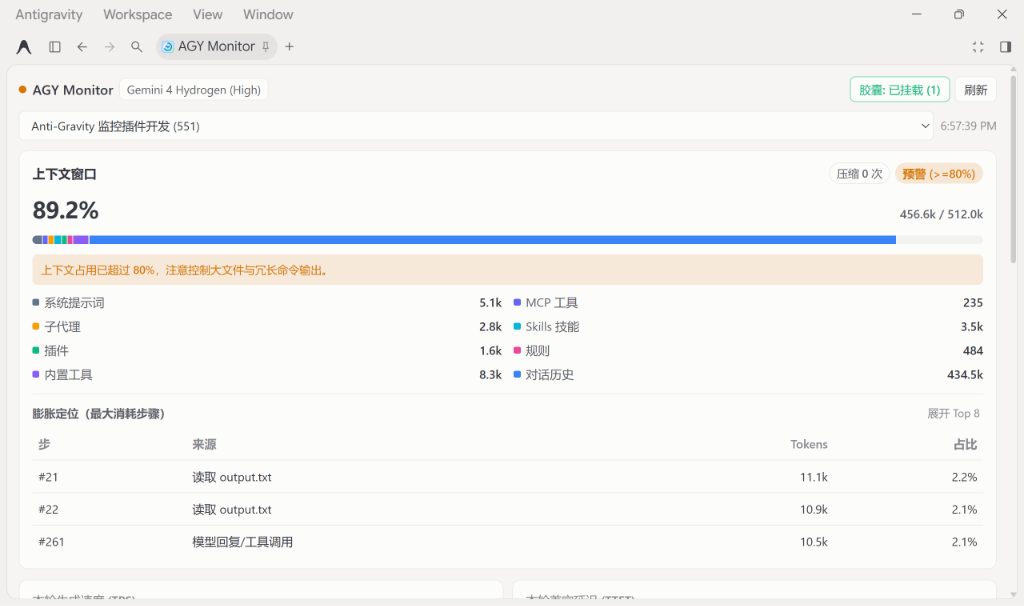
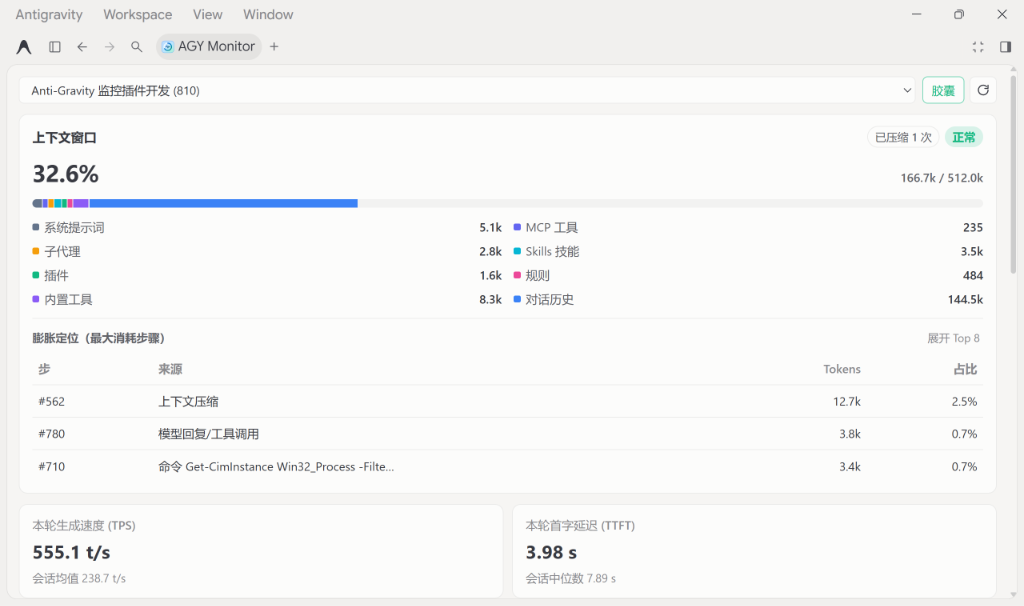
feat: release agy-monitor v0.1.1

diff --git a/sidecars/agy-monitor/app.js b/sidecars/agy-monitor/app.js
@@ -126,14 +126,18 @@
     const hint = $('cdp-hint');
     if (!cdp) return;
     pill.dataset.state = cdp.state || 'unknown';
+    pill.textContent = '胶囊';
     if (cdp.state === 'attached') {
-      pill.textContent = `胶囊: 已挂载 (${cdp.targets})`;
+      pill.title = `输入框胶囊已挂载到 ${cdp.targets} 个窗口（点击查看详情）`;
       hint.textContent = `已连接桌面端调试端口（127.0.0.1:${cdp.port}），输入框胶囊已挂载到 ${cdp.targets} 个窗口。`;
+    } else if (cdp.state === 'standby') {
+      pill.title = '由其他活跃窗口挂载胶囊（点击查看详情）';
+      hint.textContent = '检测到另一个活跃窗口的 AGY Monitor 实例正在挂载胶囊，当前实例保持待命以避免冲突。';
     } else if (cdp.state === 'port_not_enabled') {
-      pill.textContent = '胶囊: 未开 CDP';
+      pill.title = '未检测到调试端口，点击查看开启方法';
       hint.textContent = '未检测到桌面端调试端口（DevToolsActivePort），因此输入框胶囊暂未挂载。若需开启，请为 Antigravity 桌面快捷方式添加启动参数 --remote-debugging-port=0 并重启应用。';
     } else {
-      pill.textContent = '胶囊: 未连接';
+      pill.title = '输入框胶囊暂未挂载（点击查看状态）';
       hint.textContent = `当前未挂载输入框胶囊（状态: ${cdp.detail || cdp.state || 'unknown'}）。`;
     }
   }
@@ -159,7 +163,6 @@
 
   function renderContext(ctx) {
     const level = ctx.level || 'ok';
-    $('status-dot').dataset.level = level;
     const lvlEl = $('ctx-level');
     lvlEl.dataset.level = level;
     lvlEl.textContent = level === 'danger' ? '危险 · 建议 /compact' : level === 'warn' ? '预警 (>=80%)' : '正常';
@@ -278,7 +281,6 @@
     if (payload.etag) lastEtag = payload.etag;
     renderCdp(payload.cdp);
     if (payload.unchanged) {
-      if (payload.updatedAt) $('updated-at').textContent = new Date(payload.updatedAt).toLocaleTimeString();
       return;
     }
 
@@ -286,8 +288,6 @@
     renderConversations(payload.conversations, payload.conversationId);
 
     if (!t) {
-      $('model-badge').textContent = payload.loading ? '加载中…' : payload.error ? '连接异常' : '暂无数据';
-      $('updated-at').textContent = '--';
       renderContext({ used: 0, limit: 0, pct: 0, level: 'ok', checkpointCount: 0, groups: [], heavyConsumers: [] });
       $('kpi-tps').textContent = '--';
       $('kpi-tps-sub').textContent = '会话均值 --';
@@ -305,9 +305,6 @@
       renderTurns([], 0);
       return;
     }
-
-    $('model-badge').textContent = t.model || '--';
-    $('updated-at').textContent = t.updatedAt ? new Date(t.updatedAt).toLocaleTimeString() : '--';
 
     renderContext(t.context || {});
 
@@ -378,7 +375,23 @@
     void refresh(true);
   });
 
-  $('refresh-btn').addEventListener('click', () => void refresh(true));
+  let doneTimer = null;
+  $('refresh-btn').addEventListener('click', async () => {
+    const btn = $('refresh-btn');
+    if (btn.disabled) return;
+    clearTimeout(doneTimer);
+    delete btn.dataset.done;
+    btn.disabled = true;
+    btn.classList.add('spinning');
+    try {
+      await Promise.all([refresh(true), new Promise((r) => setTimeout(r, 420))]);
+      btn.dataset.done = 'true';
+      doneTimer = setTimeout(() => { delete btn.dataset.done; }, 900);
+    } finally {
+      btn.classList.remove('spinning');
+      btn.disabled = false;
+    }
+  });
 
   $('cdp-pill').addEventListener('click', () => {
     $('cdp-hint').classList.toggle('hidden');

diff --git a/sidecars/agy-monitor/styles.css b/sidecars/agy-monitor/styles.css
@@ -82,53 +82,13 @@ button, select, input {
 .topbar {
   display: flex;
   flex-direction: column;
-  gap: 10px;
+  gap: 8px;
 }
 
 .topbar-row {
   display: flex;
   align-items: center;
-  justify-content: space-between;
   gap: 8px;
-}
-
-.brand {
-  display: flex;
-  align-items: center;
-  gap: 7px;
-  min-width: 0;
-}
-
-.brand-dot {
-  width: 9px;
-  height: 9px;
-  border-radius: 50%;
-  background: var(--mon-ok);
-  flex-shrink: 0;
-}
-
-.brand-dot[data-level="warn"] { background: var(--mon-warn); }
-.brand-dot[data-level="danger"] { background: var(--mon-danger); }
-
-.brand-title {
-  margin: 0;
-  font-size: 16px;
-  font-weight: 600;
-  color: var(--mon-fg);
-  white-space: nowrap;
-}
-
-.badge {
-  font-size: 13.5px;
-  padding: 2px 8px;
-  border-radius: 6px;
-  border: 1px solid var(--mon-border);
-  background: var(--mon-card);
-  color: var(--mon-fg-2);
-  overflow: hidden;
-  text-overflow: ellipsis;
-  white-space: nowrap;
-  max-width: 180px;
 }
 
 .topbar-actions {
@@ -140,43 +100,71 @@ button, select, input {
 
 .icon-btn {
   appearance: none;
+  display: inline-flex;
+  align-items: center;
+  justify-content: center;
+  height: 32px;
   border: 1px solid var(--mon-border);
   background: var(--mon-card);
   color: var(--mon-fg);
   border-radius: 6px;
-  padding: 4px 10px;
+  padding: 0 10px;
   font-size: 13.5px;
   font-weight: 500;
+  white-space: nowrap;
   cursor: pointer;
 }
 
-.icon-btn:hover {
+.icon-btn.icon-only {
+  width: 32px;
+  padding: 0;
+}
+
+.icon-btn:hover:not(:disabled) {
   background: var(--mon-surface-soft);
 }
 
-.icon-btn[data-state="attached"] {
-  border-color: color-mix(in srgb, var(--mon-ok) 55%, transparent);
-  color: var(--mon-ok);
+.icon-btn:active:not(:disabled) {
+  transform: scale(0.95);
 }
 
-.conv-row {
-  display: flex;
-  align-items: center;
-  gap: 8px;
+.icon-btn:disabled {
+  opacity: 0.7;
+  cursor: default;
+}
+
+.icon-btn.spinning svg {
+  animation: mon-spin 0.65s linear infinite;
+}
+
+@keyframes mon-spin {
+  to { transform: rotate(360deg); }
+}
+
+#cdp-pill:not([data-state="attached"]):not([data-state="standby"]) {
+  color: var(--mon-fg-muted);
+}
+
+.icon-btn[data-state="attached"],
+.icon-btn[data-state="standby"],
+.icon-btn[data-done="true"] {
+  border-color: color-mix(in srgb, var(--mon-ok) 55%, transparent);
+  color: var(--mon-ok);
 }
 
 .conv-select {
   flex: 1;
   min-width: 0;
+  height: 32px;
   border: 1px solid var(--mon-border);
   background: var(--mon-card);
   color: var(--mon-fg);
   border-radius: 6px;
-  padding: 6px 10px;
+  padding: 0 10px;
   font-size: 14px;
 }
 
-.updated-at, .muted {
+.muted {
   font-size: 13.5px;
   color: var(--mon-fg-muted);
   white-space: nowrap;

diff --git a/sidecars/agy-monitor/index.html b/sidecars/agy-monitor/index.html
@@ -11,20 +11,16 @@
   <div class="shell">
     <header class="topbar">
       <div class="topbar-row">
-        <div class="brand">
-          <span class="brand-dot" id="status-dot"></span>
-          <h1 class="brand-title">AGY Monitor</h1>
-          <span class="badge" id="model-badge">--</span>
-        </div>
-        <div class="topbar-actions">
-          <button type="button" class="icon-btn" id="cdp-pill" title="查看输入框胶囊状态">胶囊: 检测中</button>
-          <button type="button" class="icon-btn" id="refresh-btn" title="立即刷新">刷新</button>
-        </div>
-      </div>
-
-      <div class="conv-row">
         <select id="conv-select" class="conv-select" aria-label="选择会话"></select>
-        <span class="updated-at" id="updated-at">--</span>
+        <div class="topbar-actions">
+          <button type="button" class="icon-btn" id="cdp-pill" title="查看输入框胶囊状态">胶囊</button>
+          <button type="button" class="icon-btn icon-only" id="refresh-btn" title="立即刷新" aria-label="立即刷新">
+            <svg width="15" height="15" viewBox="0 0 24 24" fill="none" stroke="currentColor" stroke-width="2" stroke-linecap="round" stroke-linejoin="round" aria-hidden="true">
+              <path d="M21 12a9 9 0 1 1-2.64-6.36" />
+              <polyline points="21 3 21 9 15 9" />
+            </svg>
+          </button>
+        </div>
       </div>
 
       <div id="cdp-hint" class="cdp-hint hidden">
